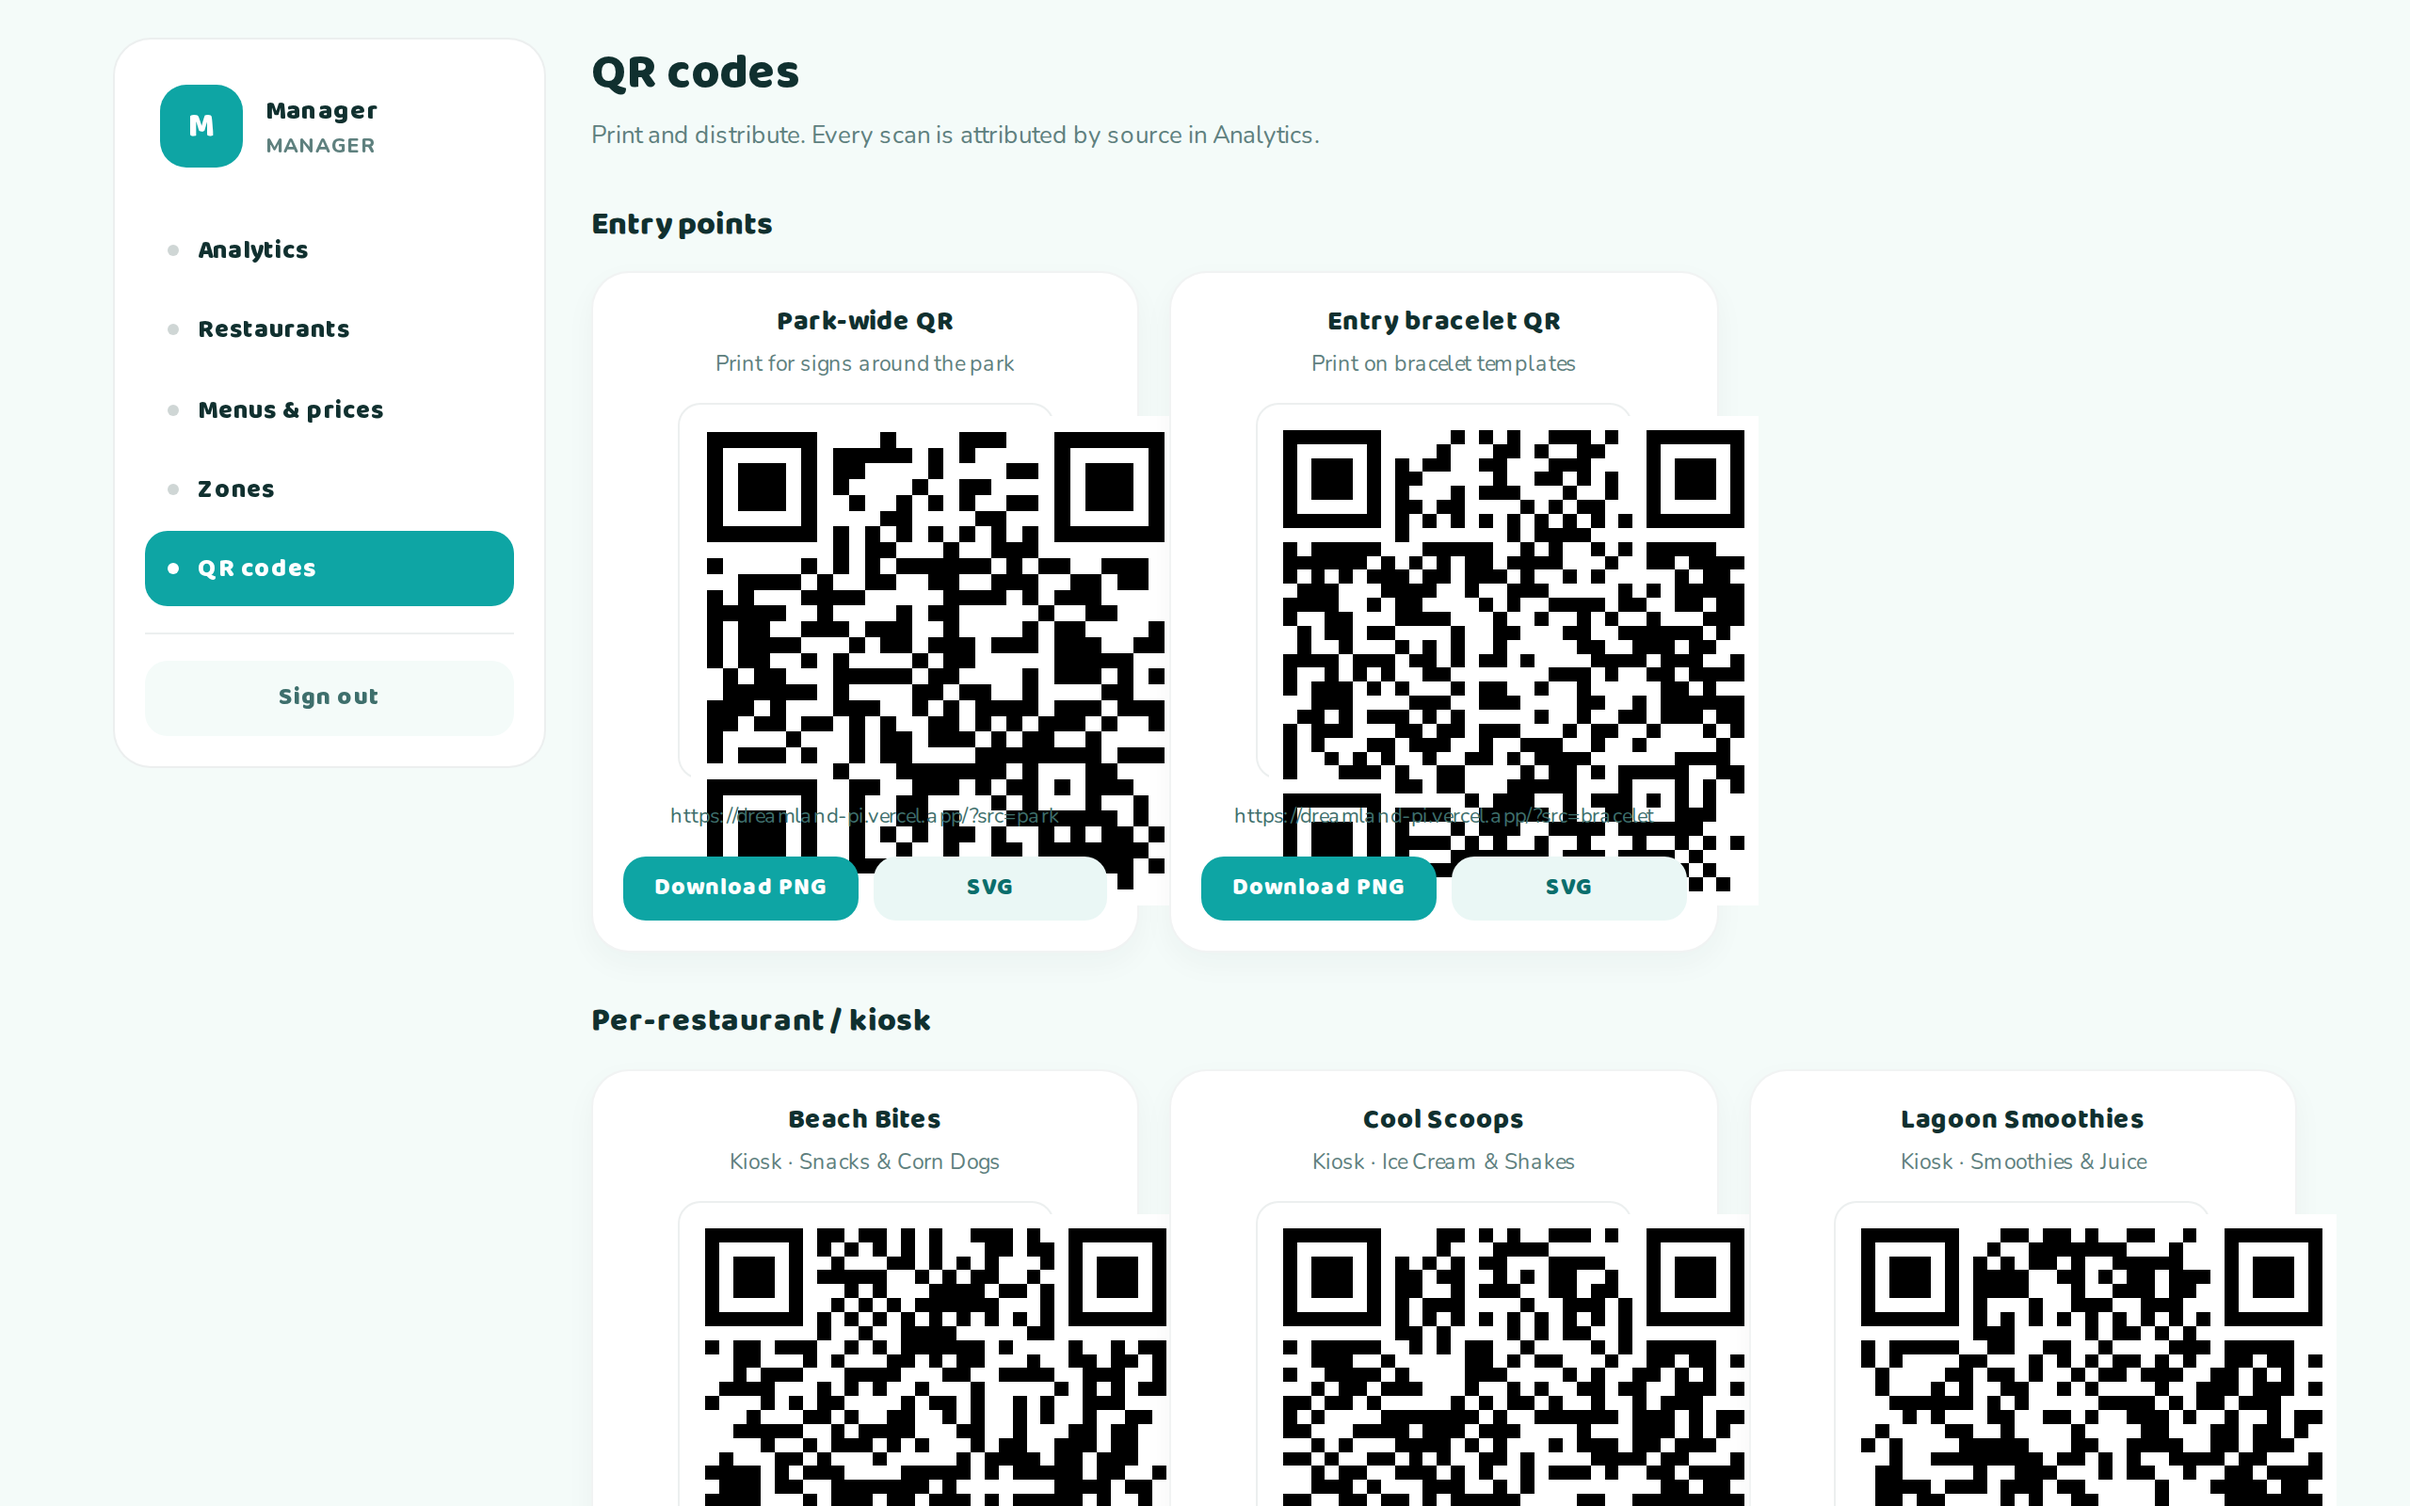
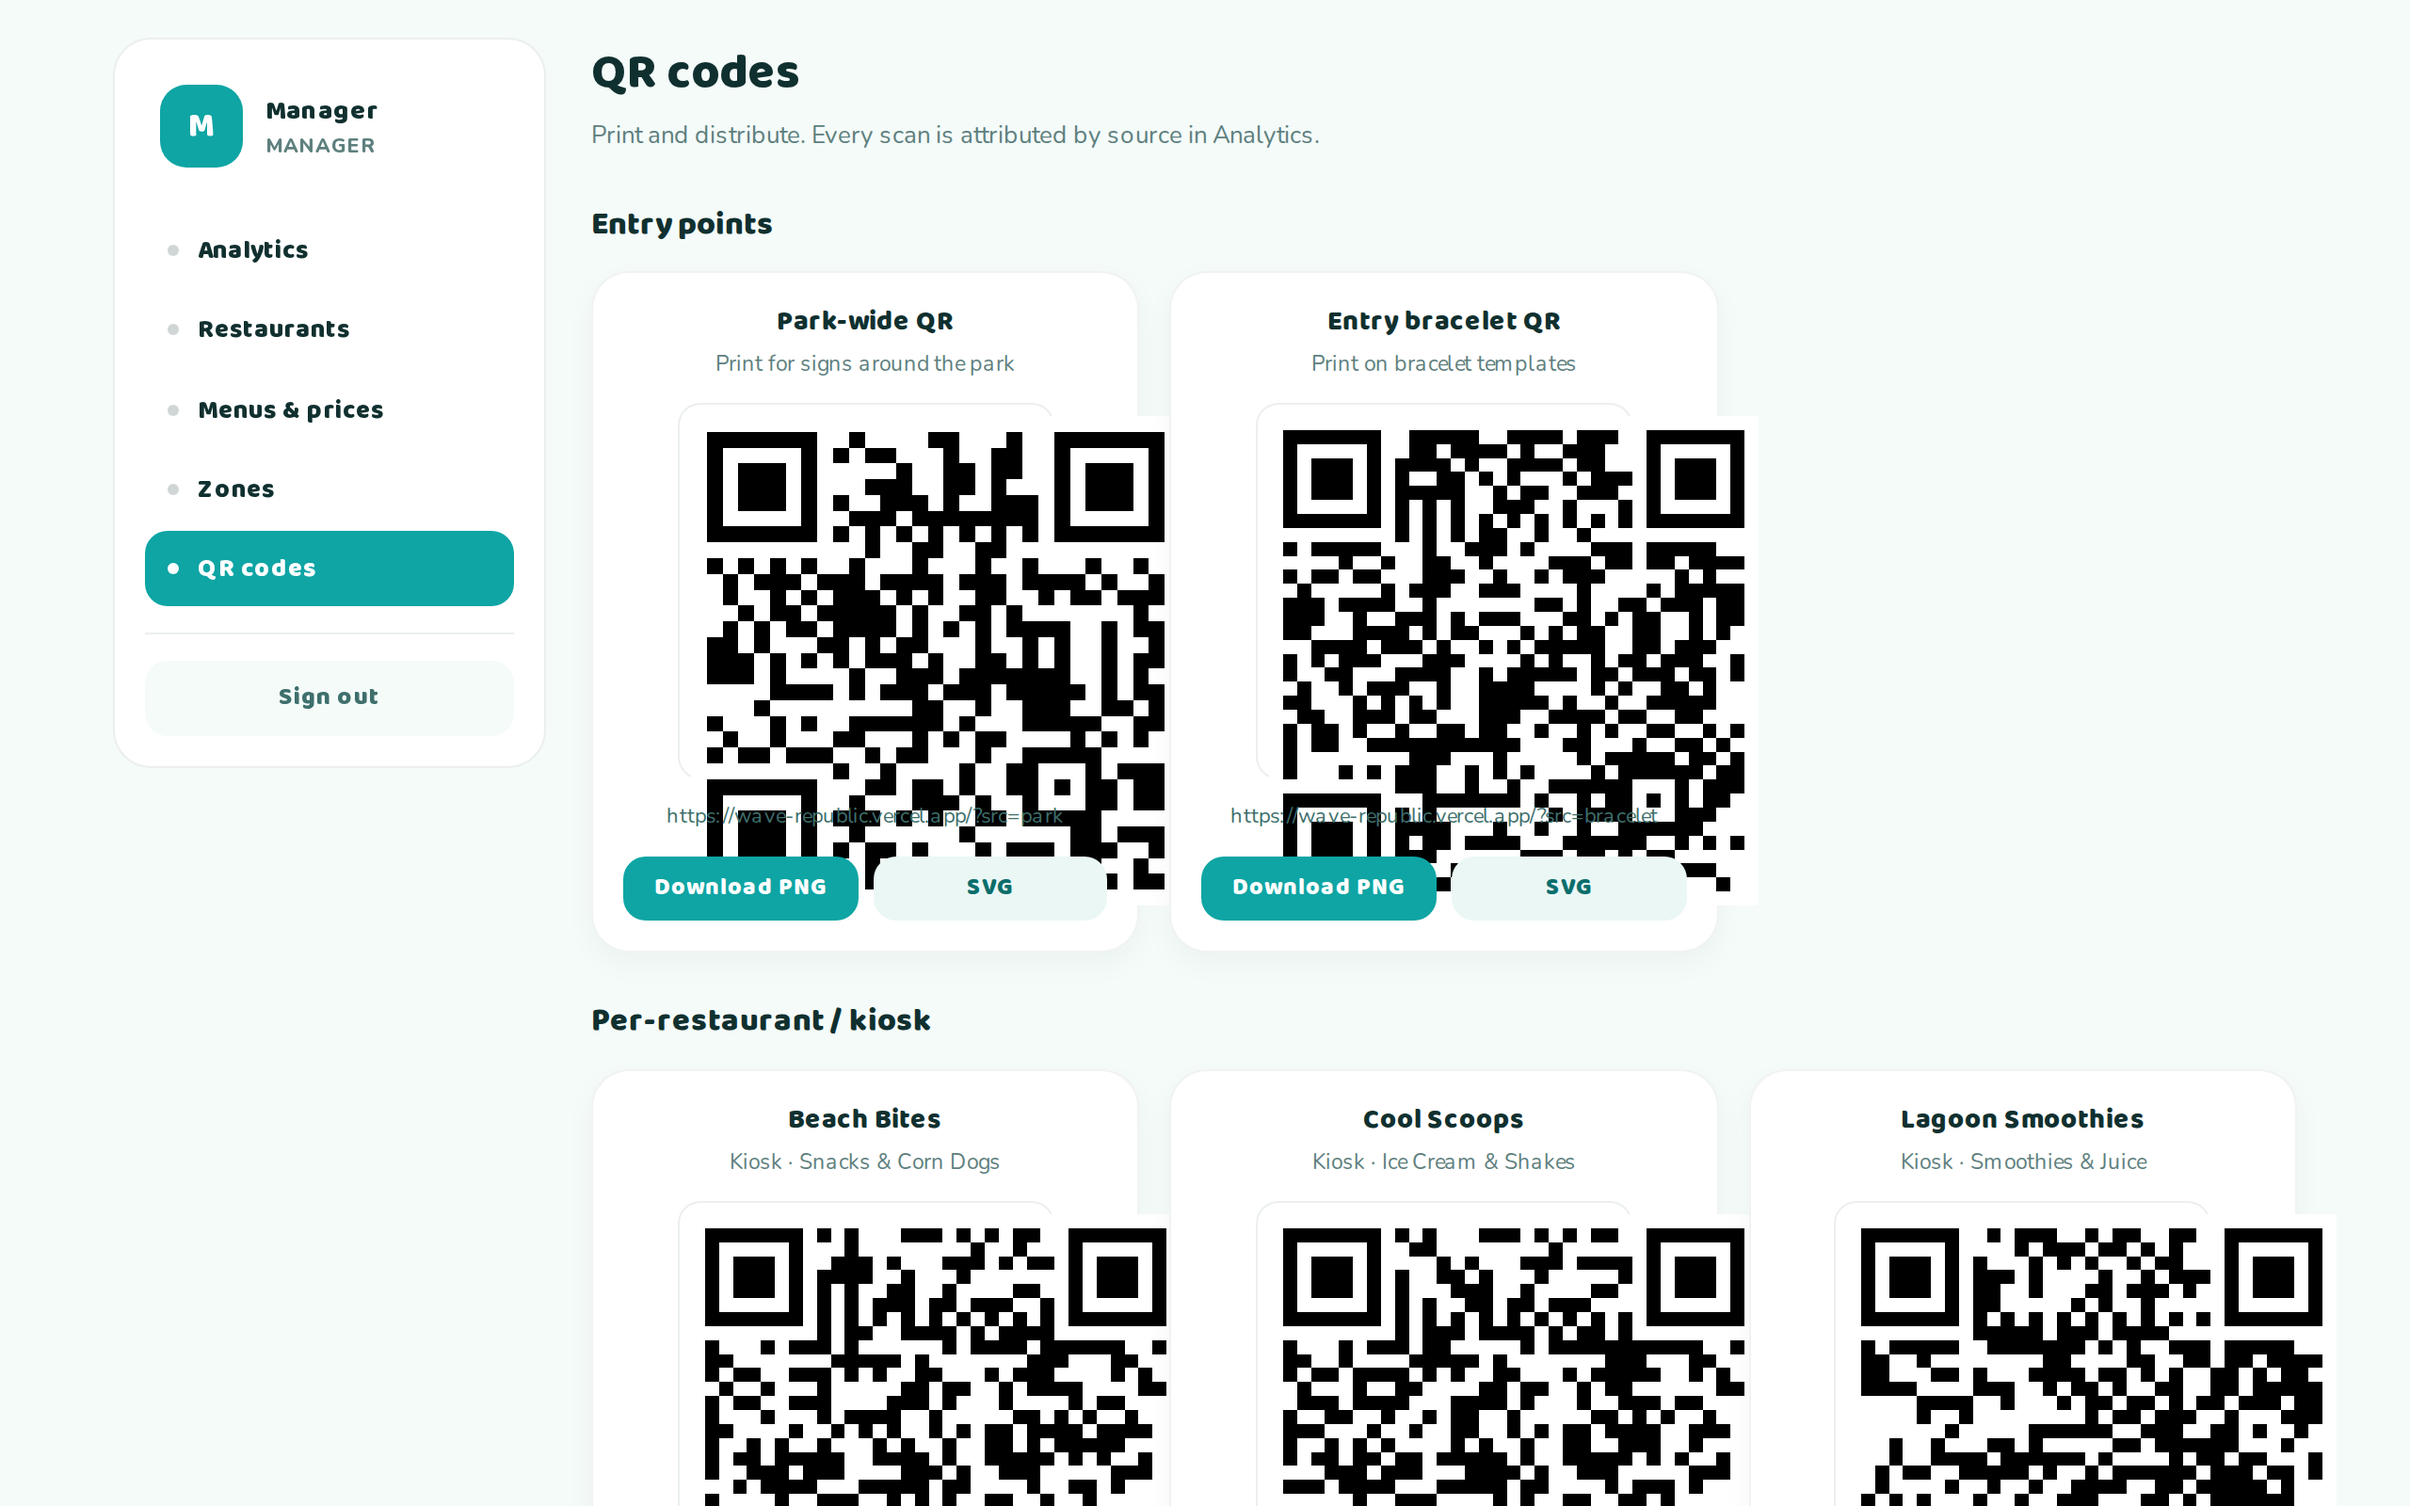
Switch demo URL to wave-republic.vercel.app
Added wave-republic.vercel.app as a domain alias in Vercel — clean URL
that matches the brand. README updated, QR screenshot re-captured so
the on-page URLs match.

Old dreamland-pi.vercel.app still resolves.

diff --git a/README.md b/README.md
@@ -2,7 +2,7 @@
 
 Order food and drinks from anywhere in a waterpark — scan a QR code, browse restaurants, place an order, track it to your zone.
 
-**Live demo:** [dreamland-pi.vercel.app](https://dreamland-pi.vercel.app) &nbsp;·&nbsp; **Manager console:** [/login](https://dreamland-pi.vercel.app/login) (`manager` / `dreamland`)
+**Live demo:** [wave-republic.vercel.app](https://wave-republic.vercel.app) &nbsp;·&nbsp; **Manager console:** [/login](https://wave-republic.vercel.app/login) (`manager` / `dreamland`)
 
 ![Customer home](public/screenshots/01-customer-home.png)
 
